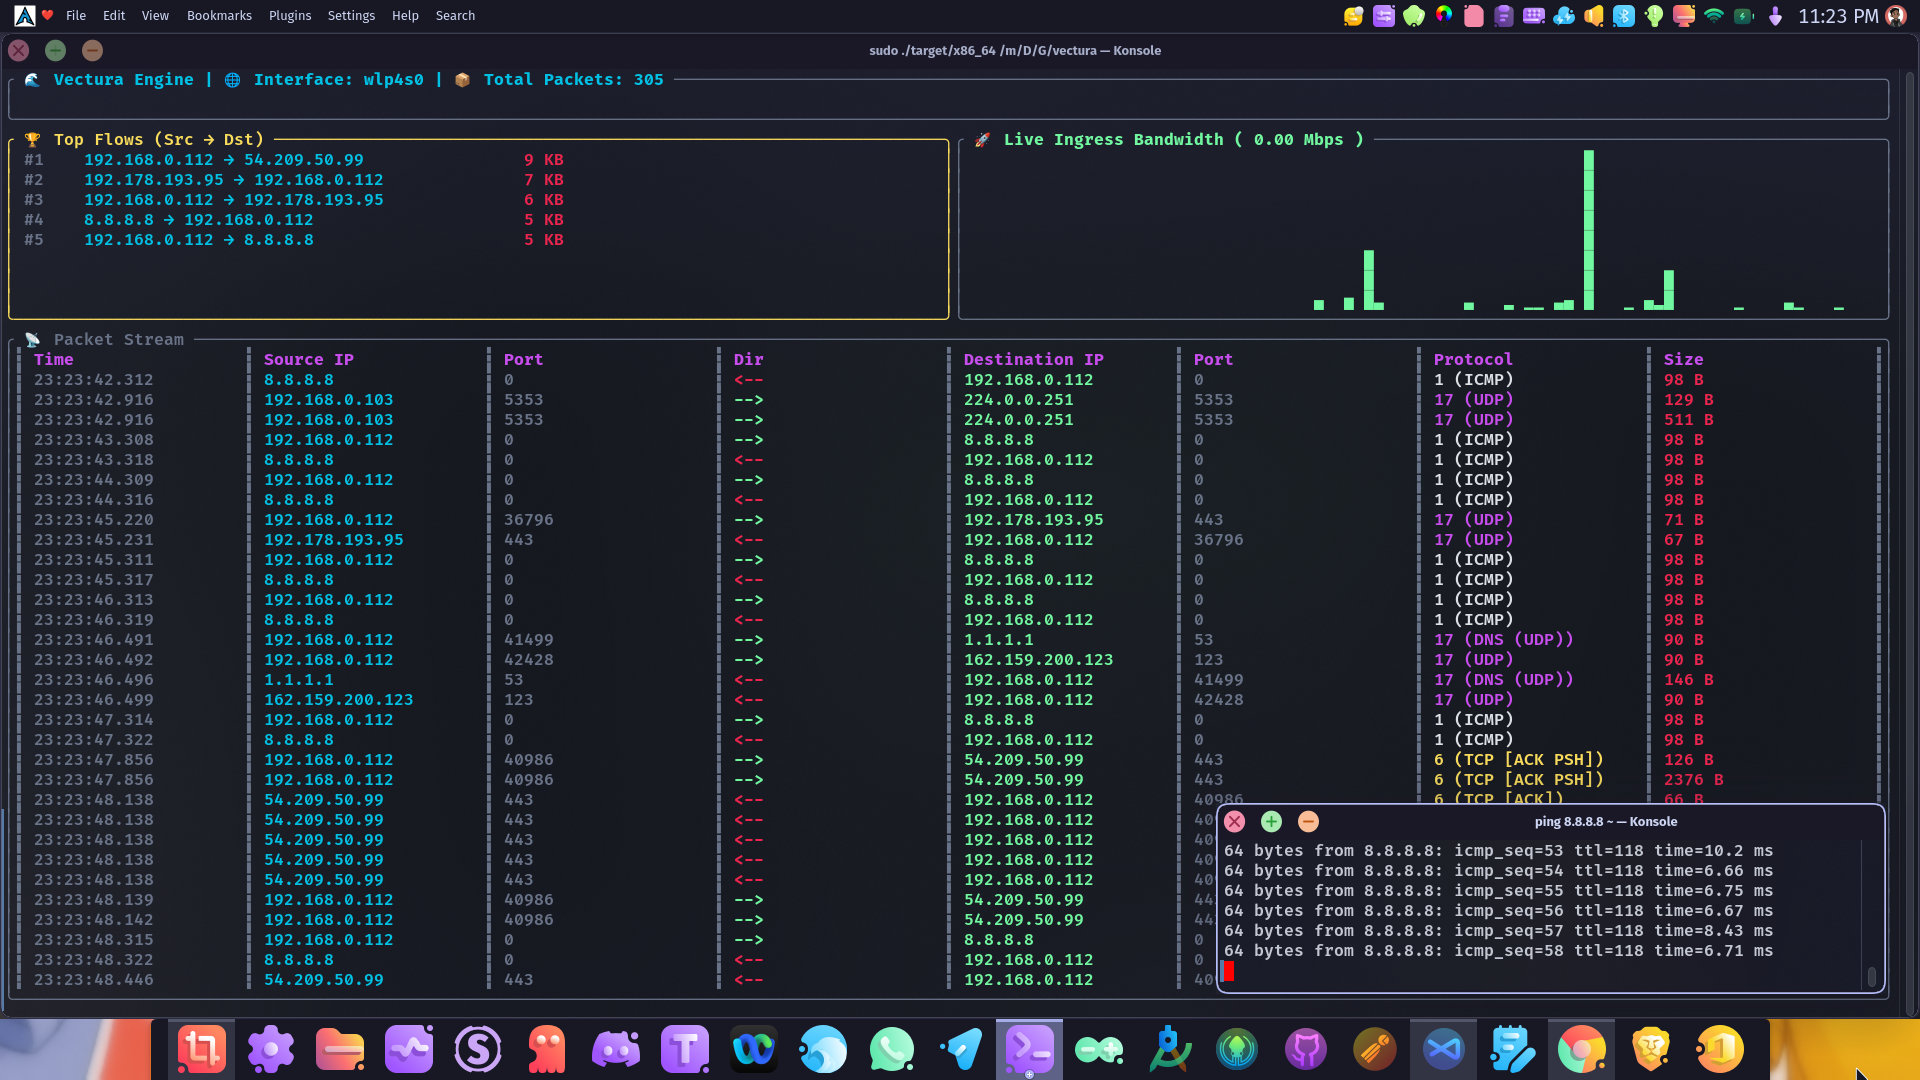
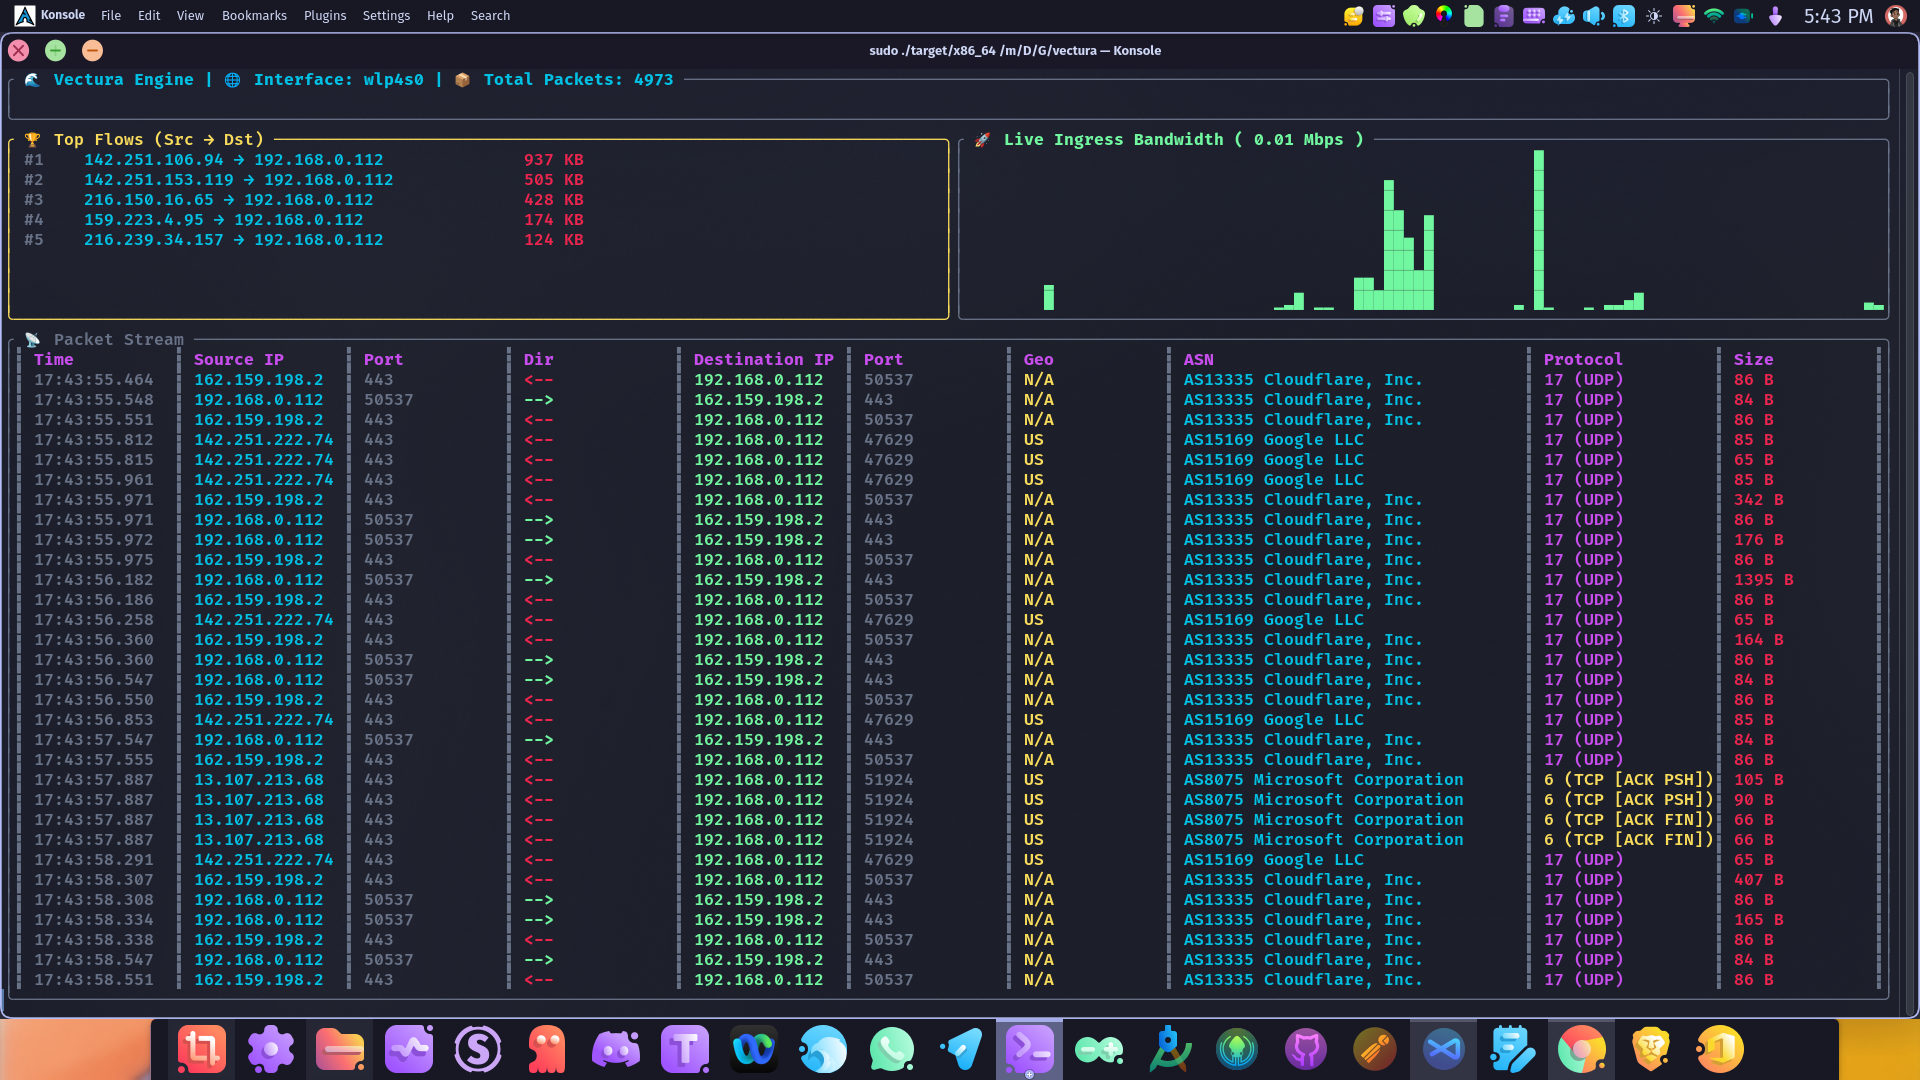
feat(geoip): integrate embedded ASN organization mapping and UI layout adjustments
- Feat(agent): Embedded GeoLite2-ASN.mmdb via include_bytes! to instantly map IP addresses to Autonomous System Numbers and owning organizations.
- Fix(tui): Rebalanced Ratatui table constraints to compress the Geo column and expand the ASN column for better data visibility.
- Fix(agent): Increased ASN string truncation limit from 22 to 35 characters to prevent premature cutoff of organization names (e.g., Cloudflare, Amazon).
- Chore: Added GeoLite2-ASN.mmdb to .gitignore to prevent repository bloat.

diff --git a/vectura-agent/src/main.rs b/vectura-agent/src/main.rs
@@ -42,7 +42,8 @@ pub struct TrafficRow {
     pub ttl: u8,
     pub tcp_flags: u8,
     pub size: u32,
-    pub geo_location: String, // NEW: Holds ASN or Country Code
+    pub geo_location: String,
+    pub asn: String, // NEW: Holds the ASN and Organization
 }
 
 impl TrafficRow {
@@ -105,7 +106,8 @@ pub struct AppState {
     pub current_mbps: f64,
     pub bandwidth_history: Vec<u64>,
     pub last_tick: Instant,
-    pub geo_reader: Option<Reader<&'static [u8]>>,
+    pub geo_reader: Option<Reader<&'static [u8]>>, 
+    pub asn_reader: Option<Reader<&'static [u8]>>, // NEW: ASN Reader
 }
 
 impl AppState {
@@ -117,6 +119,13 @@ impl AppState {
             Err(e) => panic!("\n\n❌ Failed to parse the embedded GeoIP Database!\nError: {}\n\n", e),
         };
 
+        // 2. ASN Database
+        let asn_bytes = include_bytes!("../../GeoLite2-ASN.mmdb"); 
+        let asn_reader = match Reader::from_source(asn_bytes.as_slice()) {
+            Ok(reader) => Some(reader),
+            Err(e) => panic!("\n\n❌ Failed to parse the embedded ASN Database!\nError: {}\n\n", e),
+        };
+
         Self {
             total_packets: 0,
             traffic_history: Vec::new(),
@@ -126,6 +135,7 @@ impl AppState {
             bandwidth_history: vec![0; 100],
             last_tick: Instant::now(),
             geo_reader,
+            asn_reader,
         }
     }
 
@@ -152,6 +162,39 @@ impl AppState {
         "N/A".to_string()
     }
 
+    pub fn lookup_asn(&self, ip: Ipv4Addr) -> String {
+        if ip.is_private() || ip.is_loopback() {
+            return "LOCAL".to_string();
+        }
+
+        if let Some(reader) = &self.asn_reader {
+            let ip_addr = std::net::IpAddr::V4(ip);
+            
+            if let Ok(result) = reader.lookup(ip_addr) {
+                if let Ok(Some(asn)) = result.decode::<geoip2::Asn>() {
+                    let mut asn_str = String::new();
+                    
+                    if let Some(number) = asn.autonomous_system_number {
+                        asn_str.push_str(&format!("AS{} ", number));
+                    }
+                    if let Some(org) = asn.autonomous_system_organization {
+                        asn_str.push_str(org);
+                    }
+                    
+                    if !asn_str.is_empty() {
+                        // Truncate excessively long org names to prevent UI overlap
+                        if asn_str.len() > 35 {
+                            asn_str.truncate(32);
+                            asn_str.push_str("...");
+                        }
+                        return asn_str;
+                    }
+                }
+            }
+        }
+        "N/A".to_string()
+    }
+
     // THIS is the function that processes incoming packets from the channel
     pub fn process_packet(&mut self, mut row: TrafficRow) {
         self.total_packets += 1;
@@ -160,6 +203,7 @@ impl AppState {
         // Resolve GeoIP for the remote target and attach it to the row
         let target_ip = if row.dst_ip.is_private() { row.src_ip } else { row.dst_ip };
         row.geo_location = self.lookup_geo(target_ip);
+        row.asn = self.lookup_asn(target_ip);
 
         // Track Top Flows
         let flow_str = format!("{} ⟶ {}", row.src_ip, row.dst_ip);
@@ -244,6 +288,7 @@ let _ = tc::qdisc_add_clsact(&args.interface);
                         tcp_flags: event.tcp_flags,
                         size: event.size,
                         geo_location: String::new(), // Starts empty, filled by process_packet!
+                        asn: String::new(),
                     };
 
                     let _ = tx.send(row).await;

diff --git a/vectura-agent/src/tui.rs b/vectura-agent/src/tui.rs
@@ -86,7 +86,6 @@ pub fn render_ui(frame: &mut Frame, state: &AppState, interface: &str) {
         let sep = Cell::from(sep_char).style(sep_style);
         let proto_combo = format!(" {} ({}) ", data.protocol, data.protocol_name());
 
-        // Direction logic and bold coloring
         let dir_str = data.direction_symbol();
         let dir_style = if dir_str == "<--" {
             Style::default().fg(Color::LightRed).add_modifier(Modifier::BOLD)
@@ -108,9 +107,11 @@ pub fn render_ui(frame: &mut Frame, state: &AppState, interface: &str) {
             sep.clone(),
             Cell::from(format!(" {} ", data.dst_port)).style(Style::default().fg(Color::DarkGray)),
             sep.clone(),
-            Cell::from(format!(" {} ", data.geo_location)).style(Style::default().fg(Color::Yellow)), // INJECTED GEO
+            Cell::from(format!(" {} ", data.geo_location)).style(Style::default().fg(Color::Yellow)),
             sep.clone(),
-            Cell::from(proto_combo).style(proto_style),
+            Cell::from(format!(" {} ", data.asn)).style(Style::default().fg(Color::Cyan)), // ASN Column
+            sep.clone(),
+            Cell::from(proto_combo).style(proto_style), // Single usage of proto_combo!
             sep.clone(),
             Cell::from(format!(" {} B ", data.size)).style(Style::default().fg(Color::LightRed)),
             sep.clone(), 
@@ -125,7 +126,8 @@ pub fn render_ui(frame: &mut Frame, state: &AppState, interface: &str) {
         Constraint::Length(1), Constraint::Min(5),  // Dir
         Constraint::Length(1), Constraint::Min(16), // Dst IP
         Constraint::Length(1), Constraint::Min(7),  // Dst Port
-        Constraint::Length(1), Constraint::Min(7),  // Geo
+        Constraint::Length(1), Constraint::Min(5),  // Geo
+        Constraint::Length(1), Constraint::Min(35), // ASN
         Constraint::Length(1), Constraint::Min(18), // Protocol
         Constraint::Length(1), Constraint::Min(10), // Size
         Constraint::Length(1),
@@ -140,6 +142,7 @@ pub fn render_ui(frame: &mut Frame, state: &AppState, interface: &str) {
         Cell::from(" Destination IP"), Cell::from(sep_char).style(sep_style),
         Cell::from(" Port"), Cell::from(sep_char).style(sep_style),
         Cell::from(" Geo"), Cell::from(sep_char).style(sep_style), // INJECTED HEADER
+        Cell::from(" ASN"), Cell::from(sep_char).style(sep_style), // INJECTED ASN HEADER
         Cell::from(" Protocol"), Cell::from(sep_char).style(sep_style),
         Cell::from(" Size"), Cell::from(sep_char).style(sep_style),
     ]).style(Style::default().fg(Color::LightMagenta).add_modifier(Modifier::BOLD));

diff --git a/README.md b/README.md
@@ -28,12 +28,13 @@ Powered by the Aya framework, Vectura proves that Rust can dominate both user-sp
 
 * 🛡 **100% Rust Architecture & Cryptography:** Both the user-space agent and the kernel-space eBPF programs are written entirely in safe Rust. Utilizing `rustls` instead of OpenSSL eliminates messy C-dependencies and `pkg-config` headaches. No BCC dependencies and no Clang required at runtime.
 * ⚡ **Bidirectional Kernel-Level Tracking (TC):** Vectura attaches directly to both the Traffic Control (TC) **Ingress** and **Egress** hooks. It parses the IPv4 IHL dynamically to extract L4 Ports, TTLs, and TCP Flags (`SYN`, `ACK`, `FIN`, `RST`) the microsecond they hit the network interface.
+* 🌍 **Zero-Dependency GeoIP & ASN Mapping:** Uses `include_bytes!` to embed both the MaxMind GeoLite2-City and GeoLite2-ASN databases directly into the compiled binary. Instantaneously maps remote IP addresses to their Country Code (e.g., `US`, `DE`) and owning Organization (e.g., `AS13335 Cloudflare, Inc.`) in memory without needing external files at runtime.
 * 🖥 **Advanced Multi-Pane Dashboard:** A highly responsive, `btop`-inspired terminal UI featuring:
   * **Live Bandwidth Sparkline:** A 100-tick rolling graph visualizing real-time network throughput (Mbps).
   * **Top Flows Leaderboard:** Aggregated analytics showing the highest bandwidth `Source ⟶ Destination` pairings.
-  * **Directional Packet Stream:** Color-coded forward (`-->`) and reverse (`<--`) traffic indicators for instantaneous flow comprehension.
+  * **Directional Packet Stream:** Color-coded forward (`-->`) and reverse (`<--`) traffic indicators alongside rich location and protocol data.
 * 🔀 **Non-Blocking Async Engine:** Powered by a `tokio::select!` event loop, Vectura seamlessly handles multi-core eBPF telemetry ingestion, 1-second interval aggregations, and ~30 FPS UI rendering without ever dropping a packet.
-* 🌐 **Universal Static Binary:** Cross-compiled using `musl`, resulting in a zero-dependency, statically linked executable that runs natively on *any* x86_64 Linux distribution (Ubuntu, Arch, Debian, Fedora, etc.).
+* 💎 **Ultra-Optimized Static Binary:** Cross-compiled using `musl` with aggressive LTO and size optimizations (`opt-level = "z"`). The result is a highly compressed, zero-dependency executable that runs natively on *any* x86_64 Linux distribution.
 
 ---
 
@@ -45,7 +46,7 @@ Vectura is organized as a Cargo workspace to cleanly separate the compilation ta
 vectura/
 ├── vectura-common/   📦 Shared data structs used by both Kernel & User
 ├── vectura-ebpf/     🧠 Kernel-Space Code (Compiles to eBPF bytecode)
-├── vectura-agent/    💻 User-Space Code (Tokio Async, Ratatui, Axum Server)
+├── vectura-agent/    💻 User-Space Code (Tokio Async, Ratatui, Embedded DBs)
 └── xtask/            🛠 Build automation scripts
 
 ```
@@ -87,6 +88,12 @@ Depending on your distribution, install the `musl` wrapper for statically compil
 * **Ubuntu/Debian:** `sudo apt install musl-tools`
 * **Fedora:** `sudo dnf install musl-gcc`
 
+**4. Download the GeoIP & ASN Databases (Build-Time Only):**
+
+* Create a free account at [MaxMind](https://www.google.com/search?q=https://dev.maxmind.com/geoip/geolite2-free-geolocation-data).
+* Download both the **GeoLite2 City** and **GeoLite2 ASN** databases (`.mmdb` format).
+* Place `GeoLite2-City.mmdb` and `GeoLite2-ASN.mmdb` in the root directory of this repository (they are included in `.gitignore` so they won't bloat your Git history).
+
 ---
 
 ## 🚀 Compile & Build Guide
@@ -101,7 +108,7 @@ cargo +nightly build --package vectura-ebpf --release --target bpfel-unknown-non
 ```
 
 **Step 2: Compile the User-Space Universal Binary (Requires Stable)**
-Build the statically linked user-space agent using the `musl` wrapper. This ensures maximum portability across all Linux distros.
+Build the statically linked user-space agent using the `musl` wrapper. This step takes a few minutes as the compiler performs Link-Time Optimization (LTO) and embeds the MaxMind databases directly into the binary's static memory.
 
 ```bash
 CC_x86_64_unknown_linux_musl=musl-gcc cargo build --release --target x86_64-unknown-linux-musl
@@ -116,7 +123,7 @@ CC_x86_64_unknown_linux_musl=musl-gcc cargo build --release --target x86_64-unkn
 
 ### 1. Launching the Live Dashboard
 
-Run the interactive dashboard on your target network interface (replace `wlan0` with your active interface, e.g., `eth0` or `wlp4s0`).
+Run the interactive dashboard on your target network interface (replace `wlan0` with your active interface, e.g., `eth0` or `wlp4s0`). Because the databases are embedded, you can copy this single binary to any other machine and run it as-is!
 
 ```bash
 sudo ./target/x86_64-unknown-linux-musl/release/vectura-agent --interface wlan0
@@ -142,7 +149,7 @@ sudo tc qdisc del dev wlan0 clsact
 * [x] Asynchronous Multi-Core `PerfEventArray` Kernel-to-User IPC
 * [x] Live Responsive Ratatui Terminal Interface with Sparkline Graphs
 * [x] Deep Packet Inspection (TCP/UDP Port Extraction, IHL Parsing, TCP Flags)
-* [ ] GeoIP & ASN Mapping Integration via MaxMind
+* [x] GeoIP & ASN Mapping Integration via MaxMind (Embedded Zero-Dependency)
 * [ ] SQLite Persistent Logging via SQLx
 * [ ] Prometheus Metrics Exporter & Headless Axum Server
 * [ ] Implement `RingBuf` for kernel 5.8+ optimization
@@ -157,4 +164,5 @@ Please see our technical suggestions above in the Roadmap or check out the [Issu
 
 ---
 
-*Built with [Aya](https://aya-rs.dev/) — The future of eBPF is Rust. 🦀*
+*Built with [Aya](https://www.google.com/url?sa=E&source=gmail&q=https://aya-rs.dev/) — The future of eBPF is Rust. 🦀*
+
